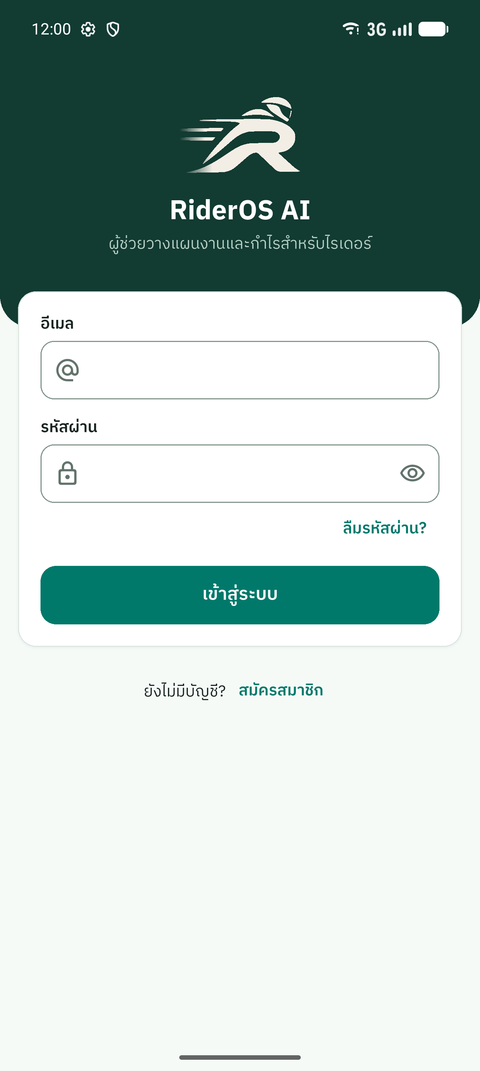
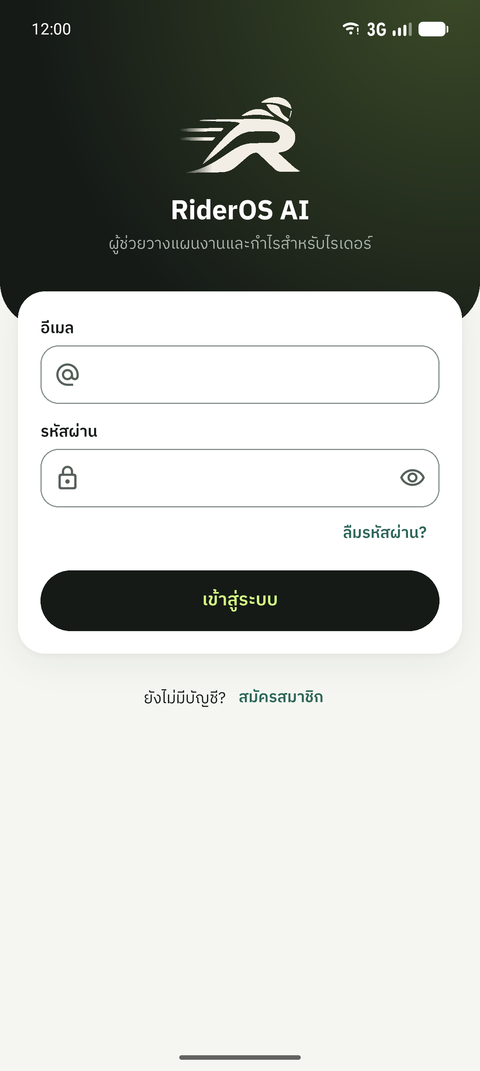
docs: README screenshots and text for the Lime Obsidian UI
- Retake the six README screenshots with the new design
- Describe the visual design and link the UI spec
- Mobile tests 507 -> 534; portfolio total 1,206

diff --git a/docs/HANDOFF.md b/docs/HANDOFF.md
@@ -485,8 +485,9 @@ Artifact อยู่นอก Git → Backend ต้องอ่านจาก
 - หน้าจอ: Home (Hero Obsidian + ตัวเลขนับขึ้น, สัปดาห์นี้ Sage, ทางลัด Lime/Teal/Mist, การ์ด "เครื่องมือ AI" เข้า Pickup/Shift/Road — คำอธิบายเท่านั้น ไม่มีตัวเลขปลอม; ข้อความใหม่ 6 คีย์ใน `app_th.arb`) · แถบเมนูล่างแคปซูล Obsidian ลอย + เม็ด Lime (ยังเป็น `NavigationBar`) · TrueProfit (สรุป Obsidian, กราฟวาดจากซ้าย, รูปแบบการทำงาน Sage + แถบ Lime บน Obsidian) · รายการแบบการ์ดแยกแถว (`PagedListView`) · Pickup (ทางลัดเป็นแคปซูลสี, หัวร้าน Sage, Prediction เป็น Hero Obsidian + โหลดด้วย `AiPulse`, Model info สลับโทน) · Shift (หัว Teal, ประมาณการ Obsidian, Scenario ที่เลือก/ดีที่สุดเป็น Lime, แถบเปรียบเทียบ Obsidian) · Road (แท็บแคปซูล, ป้ายสถานะบนแผนที่ Obsidian, Cluster Obsidian/Lime, แผง "AI แนะนำ" + `AiPulse` ตอน pending) · Profile (หัว Obsidian + อักษรย่อบนวง Lime, กลุ่มเมนูสลับโทน) · Auth (หัว Obsidian + แสง Lime) · Splash/Intro/Native splash `#0D100E`
 - Tests: `flutter analyze` No issues · `dart format` ไม่มีไฟล์เปลี่ยน · `flutter test` **530 passed** (เดิม 507, +23 ใน `surfaces_and_motion_test.dart` รวมตรวจ Contrast ≥ 4.5:1 ทุกโทนทั้งสองธีม) · แก้ Test เดิม: `design_system_test` (Token ใหม่), `app_logo_mark_test` (Tile Obsidian), `road_screens_test` กลุ่ม pending ตั้งลดการเคลื่อนไหว (Pulse ทำให้ `pumpAndSettle` เดินเวลาเลยรอบ Poll), `helpers/pump.dart` `tapKey` เพิ่ม `pump()` หลัง `ensureVisible` (หัว Profile สูงขึ้น → แตะตำแหน่งเก่า)
 - ดูบน Emulator แล้ว (Debug, บัญชี `demo.screens@example.com`): Home, TrueProfit, Pickup, ร้าน, Prediction (โหลด + ผล), Shift (เลือก 2 + แถบเปรียบเทียบ), Profile, Road map, ฟอร์มรายงานเหตุ, Login · ทั้งธีมสว่างและมืด · Login กลับบัญชีเดิมแล้ว · แก้จากที่เห็น 1 จุด: ไทล์โลโก้ (`AppLogoMark`) ในธีมมืดกลืนกับพื้น → ใช้ `darkSurfaceHighest`
-- ยังไม่ได้ทำ/ข้อจำกัด: ไอคอน Launcher ยังเป็นพื้นเขียวเดิม (ต้องสร้าง PNG ใหม่) · `docs/screenshots/` + README ยังเป็นภาพ UI เดิม · ไม่ได้วัด FPS · Heatmap ยังไล่ Mist→Obsidian (มืด: เทา→Lime) ตามเดิม
+- ยังไม่ได้ทำ/ข้อจำกัด: ไอคอน Launcher ยังเป็นพื้นเขียวเดิม (ต้องสร้าง PNG ใหม่) · ไม่ได้วัด FPS · Heatmap ยังไล่ Mist→Obsidian (มืด: เทา→Lime) ตามเดิม
 - เอกสาร: `docs/RIDEROS_UI_DESIGN.md` v2.0 §1–2.5 (Token, Tone, Motion)
+- README Screenshots ใหม่ (ผู้ใช้ทักว่า README ยังเป็นภาพเก่า, 2026-11-16): ถ่าย 6 ภาพเดิมใหม่ด้วย UI ใหม่ (Status bar demo mode 12:00, ย่อเป็น 480 × 1071) · เพิ่มกะวันนี้ให้บัญชี Demo 1 กะ (10:30 น. 4.2 ชม., รายได้ ฿513.46, ค่าน้ำมัน ฿71.18) ผ่าน API ด้วยสคริปต์ชั่วคราวใน Scratchpad (รูปแบบเดียวกับ Seed เดิม) เพื่อให้ Home มีตัวเลข · README: ย่อหน้าดีไซน์ "Lime Obsidian" + alt ภาพ (Prediction POI-1 ตอนนี้ 4–20 นาที) + Mobile tests 534 · `docs/PORTFOLIO.md` รวม Test 1,206
 - เพิ่มตามที่ผู้ใช้ขอ (2026-11-16, ส่งรูปไรเดอร์ขี่สกู๊ตเตอร์มาเป็นตัวอย่าง): แบนเนอร์บนสุดของ Home `features/dashboard/presentation/widgets/rider_banner.dart` (`RiderGreetingBanner`) การ์ด Sage + ไรเดอร์ขี่สกู๊ตเตอร์ วาดเองด้วย `CustomPainter` (ไม่ใช้ไฟล์รูปของผู้ใช้ เพราะไม่รู้ License และ Repo เป็น Public) · ไรเดอร์ขี่เข้ามาครั้งเดียว 1.4 วิ (ล้อหมุน เส้นความเร็ว เส้นถนนเลื่อน) แล้วหยุดนิ่ง · ลดการเคลื่อนไหว = จอดนิ่งทันที · ข้อความ: ป้าย "สวัสดี" + ชื่อ + "ขับขี่ปลอดภัย / วันนี้ก็สู้ ๆ นะ" (`homeHello`, `homeBannerMessage`; ลบ `homeSignedInAs` — อีเมลยังอยู่ที่ Profile) · Screen reader อ่าน "สวัสดี {ชื่อ}, ขับขี่ปลอดภัย…" · วงกลมอักษรย่อย้ายไปมุมขวา App bar กดแล้วไปแท็บโปรไฟล์ (`home.avatar`) · Test ใหม่ `rider_banner_test.dart` 4 ตัว (รวมชื่อยาว + ตัวอักษร 200% บนจอ 320 dp ทั้งสองธีม)
 
 ### 4.2 Session ถัดไปเริ่มตรงนี้

diff --git a/docs/PORTFOLIO.md b/docs/PORTFOLIO.md
@@ -6,7 +6,7 @@ column). Do not round them up and do not add numbers that are not in a report.
 ## Resume bullets (English)
 
 - Built **RiderOS AI**, an end-to-end rider productivity app: Flutter (Android) client, FastAPI + PostgreSQL/PostGIS
-  modular-monolith backend, and three models I trained myself; 1,179 automated tests and CI on GitHub Actions.
+  modular-monolith backend, and three models I trained myself; 1,206 automated tests and CI on GitHub Actions.
 - Trained an order-to-pickup regressor on 568K real Meituan orders with leakage controls and a temporal split;
   XGBoost reached test MAE 4.51 min vs 4.64 for the per-restaurant baseline (reported honestly as a 2.7% gain),
   with a split-conformal 80% interval covering 81.6% of test orders.
@@ -22,7 +22,7 @@ column). Do not round them up and do not add numbers that are not in a report.
 ## Resume bullets (ไทย)
 
 - พัฒนา **RiderOS AI** แอปช่วยไรเดอร์ส่งอาหารแบบครบวงจร: Flutter (Android) + FastAPI + PostgreSQL/PostGIS
-  และโมเดล AI 3 ตัวที่เทรนเอง · มี Test อัตโนมัติ 1,179 รายการ + CI บน GitHub Actions
+  และโมเดล AI 3 ตัวที่เทรนเอง · มี Test อัตโนมัติ 1,206 รายการ + CI บน GitHub Actions
 - เทรนโมเดลทำนายเวลาจากสั่งถึงรับอาหารจากออเดอร์จริงของ Meituan 568K รายการ ป้องกัน Data leakage และแบ่งข้อมูลตามเวลา ·
   XGBoost ได้ MAE 4.51 นาที เทียบ Baseline 4.64 (ดีขึ้น 2.7%) · ช่วงความเชื่อมั่น 80% แบบ Conformal ครอบคลุมจริง 81.6%
 - Fine-tune MobileNetV3 (PyTorch) จัดประเภทรูปเหตุบนถนน: Accuracy 0.880, Macro-F1 0.876, Latency median 16.5 ms บน CPU
@@ -43,7 +43,7 @@ column). Do not round them up and do not add numbers that are not in a report.
 
 | Number | Source |
 |---|---|
-| 1,179 tests (backend 500, ML 134, CV 38, mobile 507) | `scripts/regression.ps1` run 2026-11-15 (HANDOFF §4.15) |
+| 1,206 tests (backend 500, ML 134, CV 38, mobile 534) | `scripts/regression.ps1` run 2026-11-15 (HANDOFF §4.15); mobile 534 after the UI redesign, `flutter test` 2026-11-16 (HANDOFF §4.17) |
 | 568,546 orders | `docs/DATASET_ANALYSIS.md` |
 | MAE 4.509 / 4.636 / 4.479, coverage 81.6% | `ml/README.md` → `ml/reports/pickup_o2p/` |
 | CV 0.8804 / 0.8755, 16.5 ms | `cv_service/reports/1.0.0/model_card.md`, HANDOFF §4.11 |

diff --git a/README.md b/README.md
@@ -57,9 +57,14 @@ What the app shows follows a few rules:
 The screenshots come from the Android emulator against the local stack. The rider is a **demo account
 with seeded test data**, not real earnings. The UI is in Thai.
 
+The visual design is "Lime Obsidian": an ivory background, cards that alternate sage, teal, mist and
+Obsidian, and electric lime for actions and highlights. It has a separate dark theme, and every card tone
+is tested for text contrast of at least 4.5:1. Animations stop when the system asks for reduced motion.
+The rider illustration on Home is drawn in code. Design spec: [`docs/RIDEROS_UI_DESIGN.md`](docs/RIDEROS_UI_DESIGN.md).
+
 | Home | TrueProfit trend + work patterns | Pickup estimate |
 |---|---|---|
-| <img src="docs/screenshots/home.png" width="240" alt="Home dashboard"> | <img src="docs/screenshots/profit.png" width="240" alt="Weekly net profit chart with 4-week moving average and K-Means work patterns"> | <img src="docs/screenshots/pickup_predict.png" width="240" alt="Order-to-pickup estimate 5–21 minutes with domain-shift warning"> |
+| <img src="docs/screenshots/home.png" width="240" alt="Home with greeting banner, today's net profit and this week"> | <img src="docs/screenshots/profit.png" width="240" alt="Weekly net profit chart with 4-week moving average and K-Means work patterns"> | <img src="docs/screenshots/pickup_predict.png" width="240" alt="Order-to-pickup estimate 4–20 minutes with domain-shift warning"> |
 
 | Shift comparison | Road incidents map | Login |
 |---|---|---|
@@ -256,7 +261,7 @@ All settings are environment variables. [`.env.example`](.env.example) lists the
 | Backend (pytest, real PostGIS + Valkey) | 500 | coverage of `app/modules` + `app/core`: **98.17%** (gate 96%) |
 | ML pipeline | 134 | ruff + pytest |
 | CV service | 38 | ruff + pytest |
-| Mobile (unit + widget) | 507 | coverage of `lib/` without generated code: **96.8%** (gate 94.7%) |
+| Mobile (unit + widget) | 534 | coverage of `lib/` without generated code: **96.8%** (gate 94.7%) |
 | E2E (`flutter drive` on the emulator) | 1 journey | checks 21 database rows through SQL, then deletes the test account |
 
 The tests include cross-user access checks on every endpoint, token expiry, reuse and forgery, a check that
